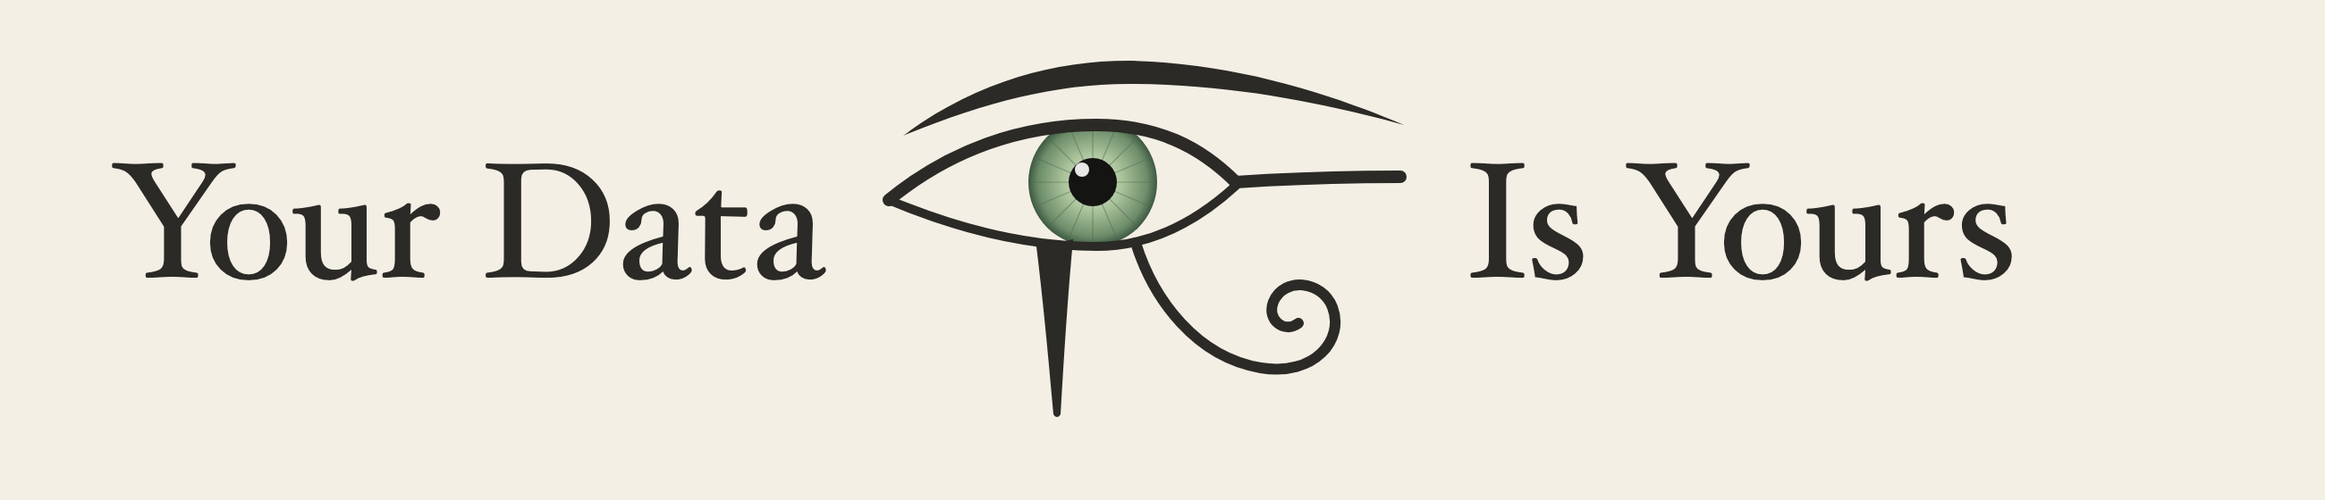
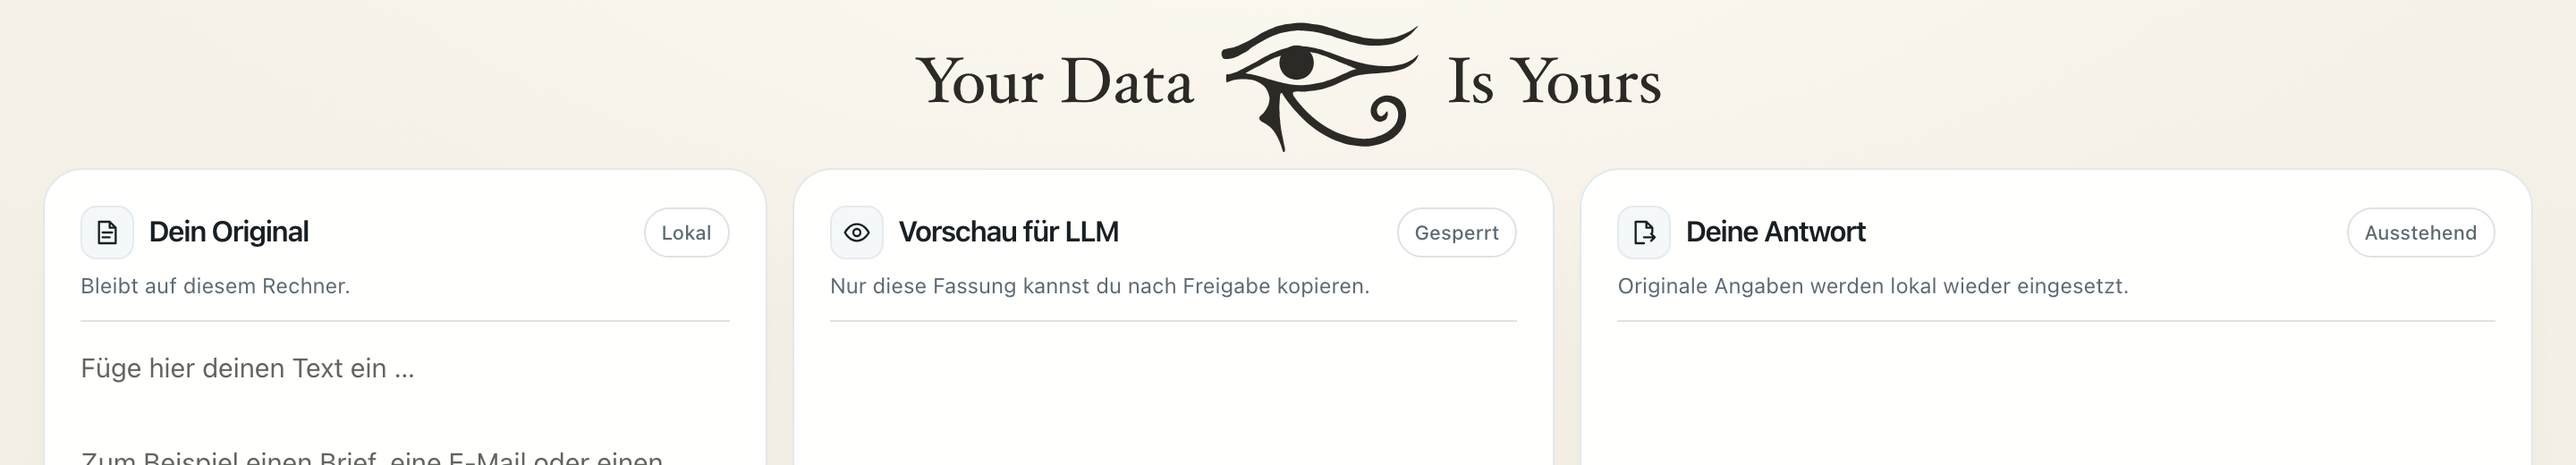
Die Überschrift lautet „Ask Anything, Reveal Nothing“, ist schmaler und zeigt das klassische Horus-Auge, die Spalten-Regeln gelten wieder auf jeder Bildschirmhöhe.
- Neues Auge (einfarbig, Weiß ausgespart) in web/assets/horus-auge.svg und inline in index.html
- Kopfzeile: 84 px bei 1440x900, 76 px bei 1280x800, 92 px bei 1920x1080
- Fünf Desktop-Regeln (#original, #copyPanel, #answer, #notes, #report) zurück in den Block min-width 861px; die Media-Query max-height 900px entfällt

diff --git a/web/static/index.html b/web/static/index.html
@@ -20,11 +20,11 @@
   .pane:focus-visible { outline: 3px solid #0076a9; outline-offset: -3px; }
   #fakeBand { background: #fff8d7; color: #70540a; font-size: 12px; font-weight: 600; text-align: center; padding: 6px 18px; border-bottom: 1px solid #f4e9b4; }
   .workspace { margin: 0 auto; padding: 10px 24px 20px; width: 100%; }
-  .intro { display: flex; justify-content: center; flex: none; padding: 0 0 10px; }
+  .intro { display: flex; justify-content: center; flex: none; padding: 2px 0 8px; }
   /* Überschrift im Stil eines alten Drucks. Nur Systemschriften, damit die Seite nichts von außen lädt. */
-  .headline { display: flex; align-items: center; justify-content: center; gap: .35em; margin: 0; color: #2b2a26; font: 400 clamp(36px, 4.45vw, 72px)/1 "Hoefler Text", Baskerville, "Iowan Old Style", Georgia, serif; letter-spacing: -.01em; white-space: nowrap; text-shadow: 0 1px 0 #fffdf8b3; }
-  /* Breite 3,26 em wie in der Vorschau (Auge 300 px bei Schrift 92 px). Das Auge sitzt mittig auf der Mitte der Kleinbuchstaben. */
-  .headline-eye { display: block; flex: none; width: 3.26em; transform: translateY(.06em); }
+  .headline { display: flex; align-items: center; justify-content: center; gap: 1.1em; margin: 0; color: #2b2a26; font: 400 clamp(26px, 2.5vw, 40px)/1 "Hoefler Text", Baskerville, "Iowan Old Style", Georgia, serif; letter-spacing: .02em; white-space: nowrap; text-shadow: 0 1px 0 #fffdf8b3; }
+  /* Breite 3,1 em. Das Auge ist 834 x 552 groß, also etwa 2 em hoch. */
+  .headline-eye { display: block; flex: none; width: 3.1em; }
   .headline-eye svg { display: block; width: 100%; height: auto; }
   .sr-only { position: absolute; width: 1px; height: 1px; padding: 0; margin: -1px; overflow: hidden; clip-path: inset(50%); white-space: nowrap; }
   main { display: grid; grid-template-columns: minmax(0,.95fr) minmax(0,1fr) minmax(0,1.25fr); align-items: stretch; gap: 14px; transition: grid-template-columns .25s cubic-bezier(.2,.7,.2,1); }
@@ -117,10 +117,6 @@
     .workspace { flex: 1; min-height: 0; width: 100%; display: flex; flex-direction: column; padding-bottom: 20px; }
     .intro { flex: none; }
     main { flex: 1; min-height: 0; height: auto; }
-  }
-  /* Wenig Höhe (Laptops bis 900 px): Die Überschrift wird kleiner, damit die Spalten ihre Höhe behalten. Kopfzeile bleibt so unter 130 px. */
-  @media (min-width: 861px) and (max-height: 900px) {
-    .headline { font-size: clamp(30px, min(4.45vw, 5.4vh), 50px); }
     #original, #answerInput { resize: none; }
     #copyPanel { flex: none; }
     #answer { min-height: 40px; }
@@ -149,7 +145,7 @@
   }
   @media (max-width: 600px) {
     /* Handy: Slogan bleibt eine Zeile und wächst mit der Breite, bei 320 px etwa 22 px Schrift. */
-    .headline { font-size: min(7vw, 30px); gap: .3em; }
+    .headline { font-size: min(5.2vw, 22px); gap: .6em; letter-spacing: 0; }
   }
   @media (pointer: coarse) { .chip button { min-width: 44px; min-height: 44px; } }
   @media (prefers-reduced-motion: reduce) { * { transition: none !important; } }
@@ -160,43 +156,17 @@
 <div class="workspace">
   <div class="intro">
     <h1 class="sr-only">Text pseudonymisieren</h1>
-    <p class="headline" aria-label="Your Data Is Yours">
+    <p class="headline" aria-label="Ask Anything, Reveal Nothing">
       <!-- Die Wörter bleiben lesbar: Ein Absatz darf laut ARIA keinen eigenen Namen tragen, manche Screenreader übergehen das aria-label. -->
-      <span>Your Data</span>
+      <span>Ask Anything</span>
       <!-- Inhalt von web/assets/horus-auge.svg unverändert eingebettet: Der Server liefert nur diese Datei aus. -->
-      <span class="headline-eye" aria-hidden="true"><svg xmlns="http://www.w3.org/2000/svg" viewBox="0 0 300 210" role="img" aria-label="Horus-Auge">
-  <defs>
-    <radialGradient id="lp7-iris" cx="50%" cy="50%" r="50%">
-      <stop offset="0" stop-color="#e6efd9"/>
-      <stop offset=".45" stop-color="#abc49c"/>
-      <stop offset=".85" stop-color="#6c8c69"/>
-      <stop offset="1" stop-color="#3d5842"/>
-    </radialGradient>
-    <clipPath id="lp7-lid"><path d="M8 82 C42 54 82 40 124 40 C158 40 182 52 202 72 C178 96 152 108 124 108 C86 108 46 98 8 82 Z"/></clipPath>
-  </defs>
-  <!-- Braue: Band, links und rechts spitz auslaufend -->
-  <path fill="currentColor" d="M16 46 C56 16 100 4 142 4 C200 5 254 22 296 40 C252 28 200 17 142 17 C100 17 60 28 16 46 Z"/>
-  <!-- Iris, oben vom Lid verdeckt -->
-  <g clip-path="url(#lp7-lid)">
-    <circle cx="122" cy="72" r="36" fill="url(#lp7-iris)"/>
-    <g stroke="#4f6b52" stroke-width=".6" opacity=".5" fill="none">
-      <path d="M122 72 L122 36 M122 72 L147 47 M122 72 L158 72 M122 72 L147 97 M122 72 L122 108 M122 72 L97 97 M122 72 L86 72 M122 72 L97 47 M122 72 L136 39 M122 72 L155 58 M122 72 L155 86 M122 72 L136 105 M122 72 L108 105 M122 72 L89 86 M122 72 L89 58 M122 72 L108 39"/>
-    </g>
-    <circle cx="122" cy="72" r="13.5" fill="#141412"/>
-    <circle cx="116" cy="65" r="4" fill="#fff" opacity=".9"/>
-  </g>
-  <g fill="none" stroke="currentColor" stroke-linecap="round" stroke-linejoin="round">
-    <!-- Oberlid und Lidstrich in einem Zug, aus dem Augenwinkel nach rechts -->
-    <path d="M8 82 C42 54 82 40 124 40 C158 40 182 52 202 72 C232 70 264 69 294 69" stroke-width="7"/>
-    <!-- Unterlid trifft den Lidstrich im Augenwinkel -->
-    <path d="M8 82 C46 98 86 108 124 108 C152 108 178 96 202 74" stroke-width="5"/>
-    <!-- Spirale -->
-    <path d="M146 106 C156 138 180 170 216 176 C246 181 263 160 256 142 C250 127 229 125 223 139 C219 149 229 157 237 151" stroke-width="6"/>
-  </g>
-  <!-- Tropfen: oben breit, unten spitz, leicht geschwungen -->
-  <path fill="currentColor" d="M90 104 C96 106 104 106 111 104 C108 136 106 168 104 202 C103 204 101 204 100 202 C97 168 94 136 90 104 Z"/>
+      <span class="headline-eye" aria-hidden="true"><svg xmlns="http://www.w3.org/2000/svg" viewBox="98 94 834 552" role="img" aria-label="Horus-Auge">
+  <!-- Horus-Auge (Udjat), Tinte über currentColor, nach Pauls Vorlage nachgezeichnet -->
+  <path fill="currentColor" d="M104 228 C103.8 223.2 106.2 218.8 108 216 C109.8 213.2 110.5 212.7 115 211 C119.5 209.3 128.3 207.5 135 206 C141.7 204.5 148.3 203.8 155 202 C161.7 200.2 168.3 197.7 175 195 C181.7 192.3 188.3 189.2 195 186 C201.7 182.8 208.3 179.5 215 176 C221.7 172.5 228.3 168.8 235 165 C241.7 161.2 248.3 157 255 153 C261.7 149 268.3 144.7 275 141 C281.7 137.3 288.3 134 295 131 C301.7 128 308.3 125.7 315 123 C321.7 120.3 328.3 117.2 335 115 C341.7 112.8 348.3 111.7 355 110 C361.7 108.3 368.3 106.2 375 105 C381.7 103.8 388.3 103.7 395 103 C401.7 102.3 408.3 101.5 415 101 C421.7 100.5 428.3 100 435 100 C441.7 100 448.3 100.5 455 101 C461.7 101.5 468.3 102.2 475 103 C481.7 103.8 488.3 105 495 106 C501.7 107 508.3 107.7 515 109 C521.7 110.3 528.3 112.2 535 114 C541.7 115.8 548.3 118 555 120 C561.7 122 568.3 124 575 126 C581.7 128 588.3 129.8 595 132 C601.7 134.2 608.3 136.7 615 139 C621.7 141.3 628.3 143.8 635 146 C641.7 148.2 648.3 150.3 655 152 C661.7 153.7 668.3 154.5 675 156 C681.7 157.5 688.3 159.7 695 161 C701.7 162.3 708.3 163.2 715 164 C721.7 164.8 728.3 165.5 735 166 C741.7 166.5 748.3 166.8 755 167 C761.7 167.2 768.3 167.3 775 167 C781.7 166.7 788.3 165.8 795 165 C801.7 164.2 808.3 163.2 815 162 C821.7 160.8 828.3 159.8 835 158 C841.7 156.2 848.3 153.5 855 151 C861.7 148.5 868.3 146.2 875 143 C881.7 139.8 888.8 135.7 895 132 C901.2 128.3 907 124.2 912 121 C917 117.8 924.3 112.3 925 113 C925.7 113.7 921 119.3 916 125 C911 130.7 901.8 141 895 147 C888.2 153 881.7 156.7 875 161 C868.3 165.3 861.7 169.5 855 173 C848.3 176.5 841.7 179.5 835 182 C828.3 184.5 821.7 186.3 815 188 C808.3 189.7 801.7 191 795 192 C788.3 193 781.7 193.5 775 194 C768.3 194.5 761.7 194.8 755 195 C748.3 195.2 741.7 195.2 735 195 C728.3 194.8 721.7 194.7 715 194 C708.3 193.3 701.7 192.2 695 191 C688.3 189.8 681.7 188.5 675 187 C668.3 185.5 661.7 183.7 655 182 C648.3 180.3 641.7 178.8 635 177 C628.3 175.2 621.7 173 615 171 C608.3 169 601.7 167.2 595 165 C588.3 162.8 581.7 160.2 575 158 C568.3 155.8 561.7 153.8 555 152 C548.3 150.2 541.7 148.7 535 147 C528.3 145.3 521.7 143.5 515 142 C508.3 140.5 501.7 139.2 495 138 C488.3 136.8 481.7 135.8 475 135 C468.3 134.2 461.7 133.5 455 133 C448.3 132.5 441.7 132.2 435 132 C428.3 131.8 421.7 131.7 415 132 C408.3 132.3 401.7 133 395 134 C388.3 135 381.7 136.7 375 138 C368.3 139.3 361.7 140.3 355 142 C348.3 143.7 341.7 145.7 335 148 C328.3 150.3 321.7 153.2 315 156 C308.3 158.8 301.7 161.7 295 165 C288.3 168.3 281.7 172.3 275 176 C268.3 179.7 261.7 183 255 187 C248.3 191 241.7 195.3 235 200 C228.3 204.7 221.7 210.5 215 215 C208.3 219.5 201.7 223.2 195 227 C188.3 230.8 181.7 234.8 175 238 C168.3 241.2 161.7 244 155 246 C148.3 248 140.8 249.2 135 250 C129.2 250.8 124.3 251.8 120 251 C115.7 250.2 111.7 248.8 109 245 C106.3 241.2 104.2 232.8 104 228 Z"/>
+  <path fill="currentColor" fill-rule="evenodd" d="M125 316 C126.7 310.8 130 316.2 135 315 C140 313.8 148.3 311.3 155 309 C161.7 306.7 168.3 304 175 301 C181.7 298 188.3 294.3 195 291 C201.7 287.7 208.3 284.5 215 281 C221.7 277.5 228.3 273.7 235 270 C241.7 266.3 248.3 262.8 255 259 C261.7 255.2 268.3 250.7 275 247 C281.7 243.3 288.3 240.3 295 237 C301.7 233.7 308.3 230.2 315 227 C321.7 223.8 328.3 220.7 335 218 C341.7 215.3 348.3 213.2 355 211 C361.7 208.8 368.3 206.7 375 205 C381.7 203.3 388.3 202 395 201 C401.7 200 408.3 199.5 415 199 C421.7 198.5 428.3 198 435 198 C441.7 198 448.3 198.5 455 199 C461.7 199.5 468.3 200 475 201 C481.7 202 488.3 203.5 495 205 C501.7 206.5 508.3 208.2 515 210 C521.7 211.8 528.3 213.8 535 216 C541.7 218.2 548.3 220.7 555 223 C561.7 225.3 568.3 227.5 575 230 C581.7 232.5 588.3 235.5 595 238 C601.7 240.5 608.3 242.7 615 245 C621.7 247.3 628.3 249.8 635 252 C641.7 254.2 648.3 256 655 258 C661.7 260 668.3 262.2 675 264 C681.7 265.8 688.3 267.5 695 269 C701.7 270.5 708.3 271.8 715 273 C721.7 274.2 728.3 275 735 276 C741.7 277 748.3 278.3 755 279 C761.7 279.7 768.3 279.7 775 280 C781.7 280.3 788.3 281 795 281 C801.7 281 808.3 280.7 815 280 C821.7 279.3 828.3 278.2 835 277 C841.7 275.8 848.3 274.7 855 273 C861.7 271.3 868.3 269.7 875 267 C881.7 264.3 888.8 260.7 895 257 C901.2 253.3 906.7 249 912 245 C917.3 241 926.3 231.2 927 233 C927.7 234.8 921.3 249 916 256 C910.7 263 901.8 269.8 895 275 C888.2 280.2 881.7 283.7 875 287 C868.3 290.3 861.7 292.8 855 295 C848.3 297.2 841.7 298.5 835 300 C828.3 301.5 821.7 302.8 815 304 C808.3 305.2 801.7 306.2 795 307 C788.3 307.8 781.7 308.3 775 309 C768.3 309.7 761.7 310.5 755 311 C748.3 311.5 741.7 311.5 735 312 C728.3 312.5 721.7 313.3 715 314 C708.3 314.7 701.7 315.2 695 316 C688.3 316.8 681.7 317.5 675 319 C668.3 320.5 661.7 322.7 655 325 C648.3 327.3 641.7 330.2 635 333 C628.3 335.8 621.7 339 615 342 C608.3 345 601.7 348 595 351 C588.3 354 581.7 357.2 575 360 C568.3 362.8 561.7 365.7 555 368 C548.3 370.3 541.7 372.2 535 374 C528.3 375.8 521.7 377.5 515 379 C508.3 380.5 501.7 382 495 383 C488.3 384 481.7 384.3 475 385 C468.3 385.7 461.7 386.7 455 387 C448.3 387.3 441.7 387 435 387 C428.3 387 420.2 386.5 415 387 C409.8 387.5 405.8 387.5 404 390 C402.2 392.5 402.5 397.8 404 402 C405.5 406.2 409.7 410.3 413 415 C416.3 419.7 420 425 424 430 C428 435 432.7 440 437 445 C441.3 450 445.3 455 450 460 C454.7 465 459.8 470 465 475 C470.2 480 475.3 485 481 490 C486.7 495 492.7 500 499 505 C505.3 510 511.8 515 519 520 C526.2 525 533.7 530 542 535 C550.3 540 558.7 545 569 550 C579.3 555 589.3 560 604 565 C618.7 570 641.8 576.8 657 580 C672.2 583.2 682 583.8 695 584 C708 584.2 720.7 584.2 735 581 C749.3 577.8 769.3 570.2 781 565 C792.7 559.8 798.2 555 805 550 C811.8 545 817.3 540 822 535 C826.7 530 830.2 525 833 520 C835.8 515 837.5 510 839 505 C840.5 500 841.5 495 842 490 C842.5 485 842.7 480 842 475 C841.3 470 840.2 464.8 838 460 C835.8 455.2 833 450.2 829 446 C825 441.8 819.7 437.8 814 435 C808.3 432.2 801.3 429.3 795 429 C788.7 428.7 781.7 430.5 776 433 C770.3 435.5 764.7 439.5 761 444 C757.3 448.5 755 454.8 754 460 C753 465.2 753.7 470.7 755 475 C756.3 479.3 759.2 483.5 762 486 C764.8 488.5 768.5 490.3 772 490 C775.5 489.7 779.8 486.7 783 484 C786.2 481.3 788.7 476.3 791 474 C793.3 471.7 795.7 468.3 797 470 C798.3 471.7 799.5 479.2 799 484 C798.5 488.8 796.5 495 794 499 C791.5 503 788 505.7 784 508 C780 510.3 774.8 512.5 770 513 C765.2 513.5 759.5 512.7 755 511 C750.5 509.3 746.7 506.5 743 503 C739.3 499.5 735.5 494.7 733 490 C730.5 485.3 728.8 480 728 475 C727.2 470 727.3 465 728 460 C728.7 455 729.8 450 732 445 C734.2 440 736.8 434.8 741 430 C745.2 425.2 751.3 419.8 757 416 C762.7 412.2 768.7 409.2 775 407 C781.3 404.8 788.3 403.3 795 403 C801.7 402.7 807.5 403.2 815 405 C822.5 406.8 833 410.2 840 414 C847 417.8 852.5 422.8 857 428 C861.5 433.2 864.3 439.7 867 445 C869.7 450.3 871.7 455 873 460 C874.3 465 874.7 470 875 475 C875.3 480 875.3 485 875 490 C874.7 495 874 500 873 505 C872 510 870.8 515 869 520 C867.2 525 864.7 530 862 535 C859.3 540 856.7 545 853 550 C849.3 555 845 560 840 565 C835 570 829.8 575.2 823 580 C816.2 584.8 810 589.2 799 594 C788 598.8 769.3 605.5 757 609 C744.7 612.5 735.3 613.8 725 615 C714.7 616.2 709.2 616.8 695 616 C680.8 615.2 657.5 613.5 640 610 C622.5 606.5 604.2 600 590 595 C575.8 590 565.3 585 555 580 C544.7 575 536.5 570 528 565 C519.5 560 511.3 555 504 550 C496.7 545 490.5 540 484 535 C477.5 530 470.8 525 465 520 C459.2 515 454.2 510 449 505 C443.8 500 438.8 495 434 490 C429.2 485 424.7 480 420 475 C415.3 470 410.3 465 406 460 C401.7 455 398 450 394 445 C390 440 385.8 435 382 430 C378.2 425 374.3 419.8 371 415 C367.7 410.2 364.5 404.7 362 401 C359.5 397.3 358 393.7 356 393 C354 392.3 351.3 393.3 350 397 C348.7 400.7 348.5 409.5 348 415 C347.5 420.5 347.3 425 347 430 C346.7 435 346.2 440 346 445 C345.8 450 345.8 455 346 460 C346.2 465 346.8 470 347 475 C347.2 480 346.7 485 347 490 C347.3 495 348.5 500 349 505 C349.5 510 349.5 515 350 520 C350.5 525 351.3 530 352 535 C352.7 540 353.2 545 354 550 C354.8 555 356 560 357 565 C358 570 359 575 360 580 C361 585 362 590 363 595 C364 600 365 605.2 366 610 C367 614.8 368.5 619.8 369 624 C369.5 628.2 369.5 632.3 369 635 C368.5 637.7 367.3 639.7 366 640 C364.7 640.3 362.5 639.5 361 637 C359.5 634.5 358.5 629.5 357 625 C355.5 620.5 353.8 615 352 610 C350.2 605 348.2 600 346 595 C343.8 590 341.5 585 339 580 C336.5 575 334 570 331 565 C328 560 325 555 321 550 C317 545 312.7 539.8 307 535 C301.3 530.2 293.2 525 287 521 C280.8 517 274.2 514.7 270 511 C265.8 507.3 262.5 502.8 262 499 C261.5 495.2 263.8 492 267 488 C270.2 484 277 479.7 281 475 C285 470.3 288 465 291 460 C294 455 297 450 299 445 C301 440 302 435 303 430 C304 425 305.2 420 305 415 C304.8 410 303.5 405 302 400 C300.5 395 298.5 390 296 385 C293.5 380 290.5 374.5 287 370 C283.5 365.5 280.3 362 275 358 C269.7 354 261.7 349.2 255 346 C248.3 342.8 241.7 340.7 235 339 C228.3 337.3 221.7 336.7 215 336 C208.3 335.3 201.7 335 195 335 C188.3 335 181.7 335.3 175 336 C168.3 336.7 161.2 337.7 155 339 C148.8 340.3 143 342.8 138 344 C133 345.2 127.2 350.7 125 346 C122.8 341.3 123.3 321.2 125 316 Z M205 310 C205 308.5 210 306.8 215 304 C220 301.2 228.3 296.5 235 293 C241.7 289.5 248.3 286.5 255 283 C261.7 279.5 268.3 275.7 275 272 C281.7 268.3 288.3 264.5 295 261 C301.7 257.5 308.3 254 315 251 C321.7 248 328.3 245.5 335 243 C341.7 240.5 346.7 238.3 355 236 C363.3 233.7 375 230.8 385 229 C395 227.2 405 226.2 415 225 C425 223.8 435 222.5 445 222 C455 221.5 466.7 221.3 475 222 C483.3 222.7 488.3 224.5 495 226 C501.7 227.5 508.3 229 515 231 C521.7 233 528.3 235.5 535 238 C541.7 240.5 548.3 243.3 555 246 C561.7 248.7 568.3 251.2 575 254 C581.7 256.8 588.3 260.2 595 263 C601.7 265.8 608.3 268.3 615 271 C621.7 273.7 628.3 276.3 635 279 C641.7 281.7 649.5 284.7 655 287 C660.5 289.3 668 291.5 668 293 C668 294.5 660.5 294.2 655 296 C649.5 297.8 641.7 301.2 635 304 C628.3 306.8 621.7 310 615 313 C608.3 316 601.7 319 595 322 C588.3 325 581.7 328.2 575 331 C568.3 333.8 561.7 336.7 555 339 C548.3 341.3 541.7 343.2 535 345 C528.3 346.8 521.7 348.5 515 350 C508.3 351.5 501.7 352.8 495 354 C488.3 355.2 481.7 356.2 475 357 C468.3 357.8 461.7 358.5 455 359 C448.3 359.5 441.7 360 435 360 C428.3 360 421.7 359.5 415 359 C408.3 358.5 401.7 357.8 395 357 C388.3 356.2 381.7 355.3 375 354 C368.3 352.7 361.7 350.7 355 349 C348.3 347.3 341.7 345.7 335 344 C328.3 342.3 321.7 340.8 315 339 C308.3 337.2 301.7 335 295 333 C288.3 331 281.7 329 275 327 C268.3 325 261.7 322.8 255 321 C248.3 319.2 241.7 317.3 235 316 C228.3 314.7 220 314 215 313 C210 312 205 311.5 205 310 Z"/>
+  <circle fill="currentColor" cx="418" cy="266" r="72"/>
 </svg></span>
-      <span>Is Yours</span>
+      <span>Reveal Nothing</span>
     </p>
   </div>
   <main id="workspace" aria-label="Dokument bearbeiten">

diff --git a/web/BACKLOG.md b/web/BACKLOG.md
@@ -16,5 +16,5 @@
 - Word-Tabellen: Jede Zelle wird eine eigene Zeile. Zellen einer Zeile mit Tabulator verbinden, dann bleibt „IBAN“ neben dem Wert.
 - Markieren per Tastatur, bisher geht es nur mit der Maus.
 - Freigaben liegen im Speicher des Servers und werden nie aufgeräumt. Für die Demo reicht das.
-- `web/README.md` beschreibt unter „Arbeitsoberfläche“ noch das Glasmotiv zwischen „Klar. Lokal.“ und „Unter deiner Kontrolle.“, und der Screenshot `assets/arbeitsoberflaeche-material-c.png` zeigt die alte Kopfzeile. Nach dem Merge der Überschrift „Your Data Is Yours“ Text und Bild nachziehen.
+- `web/README.md` beschreibt unter „Arbeitsoberfläche“ noch das Glasmotiv zwischen „Klar. Lokal.“ und „Unter deiner Kontrolle.“, und der Screenshot `assets/arbeitsoberflaeche-material-c.png` zeigt die alte Kopfzeile. Nach dem Merge der Überschrift „Ask Anything, Reveal Nothing“ Text und Bild nachziehen.
 - `web/test_ui.py` könnte die Höhe der Kopfzeile auf 1440 × 900 und 1280 × 800 mitprüfen (höchstens 130 px, kein senkrechtes Scrollen). Bisher nur von Hand gemessen.
